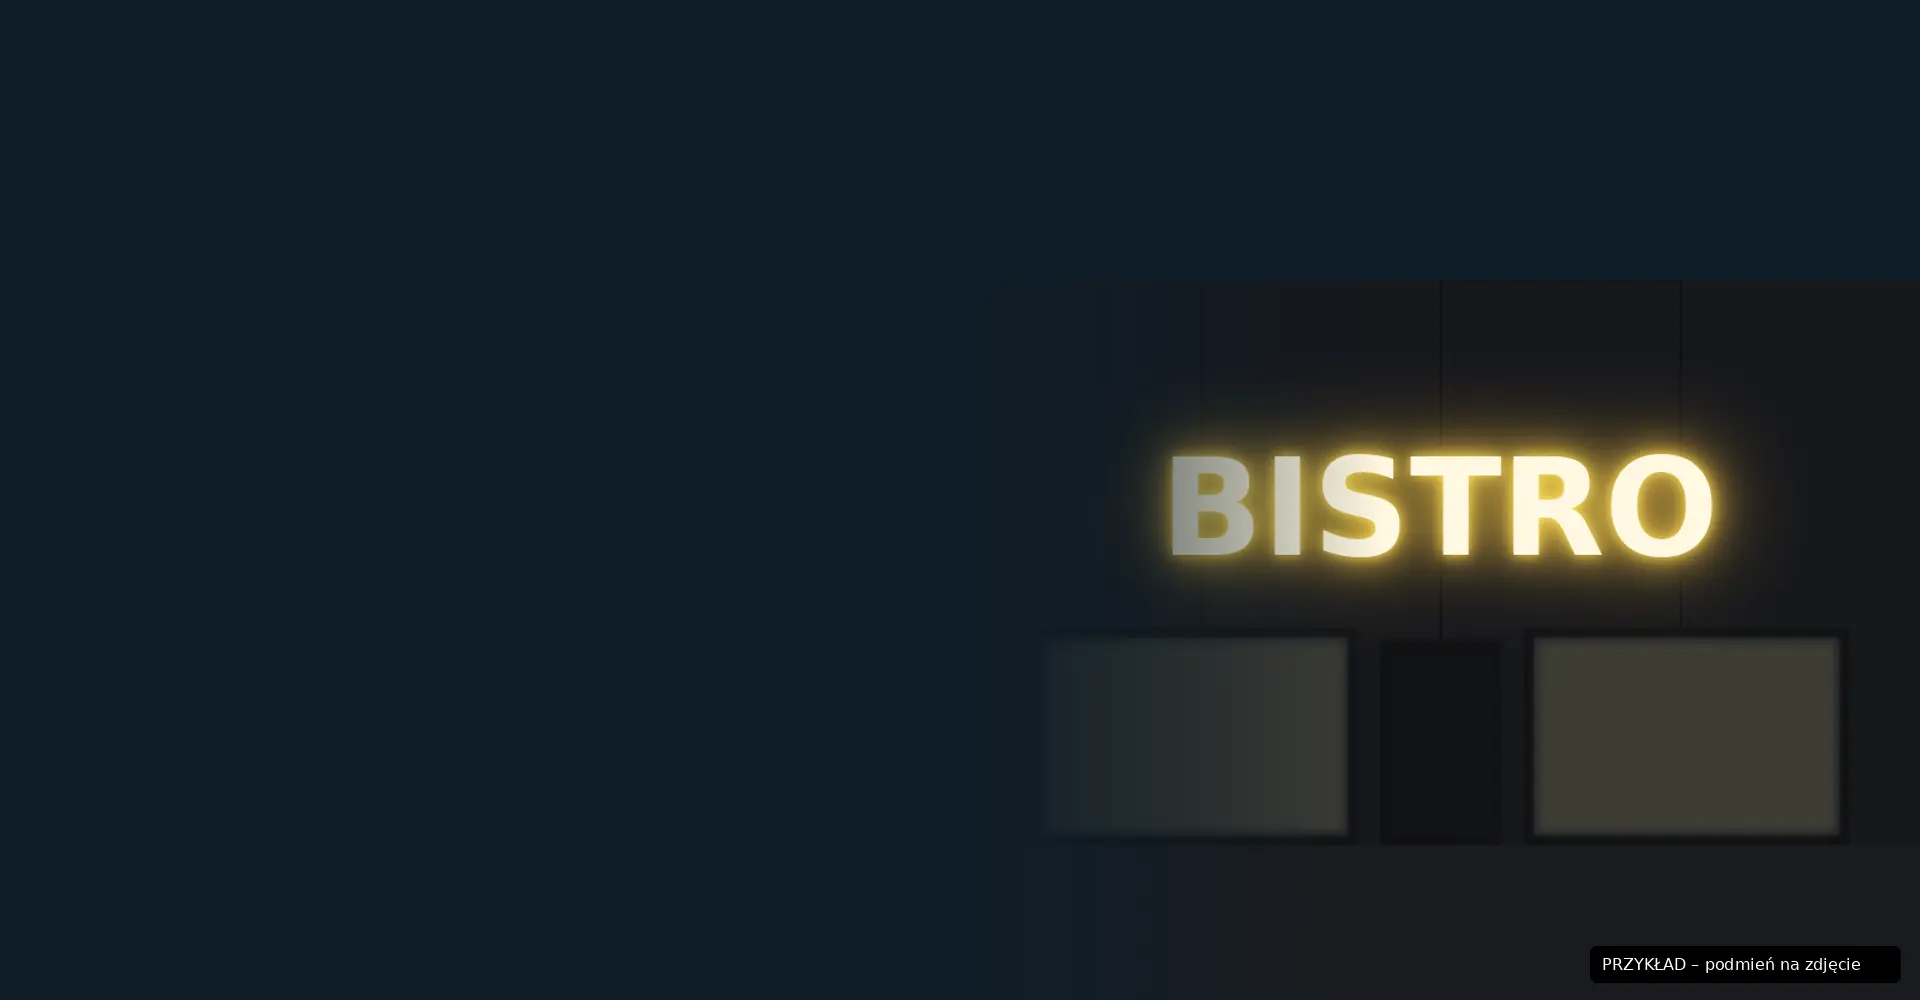
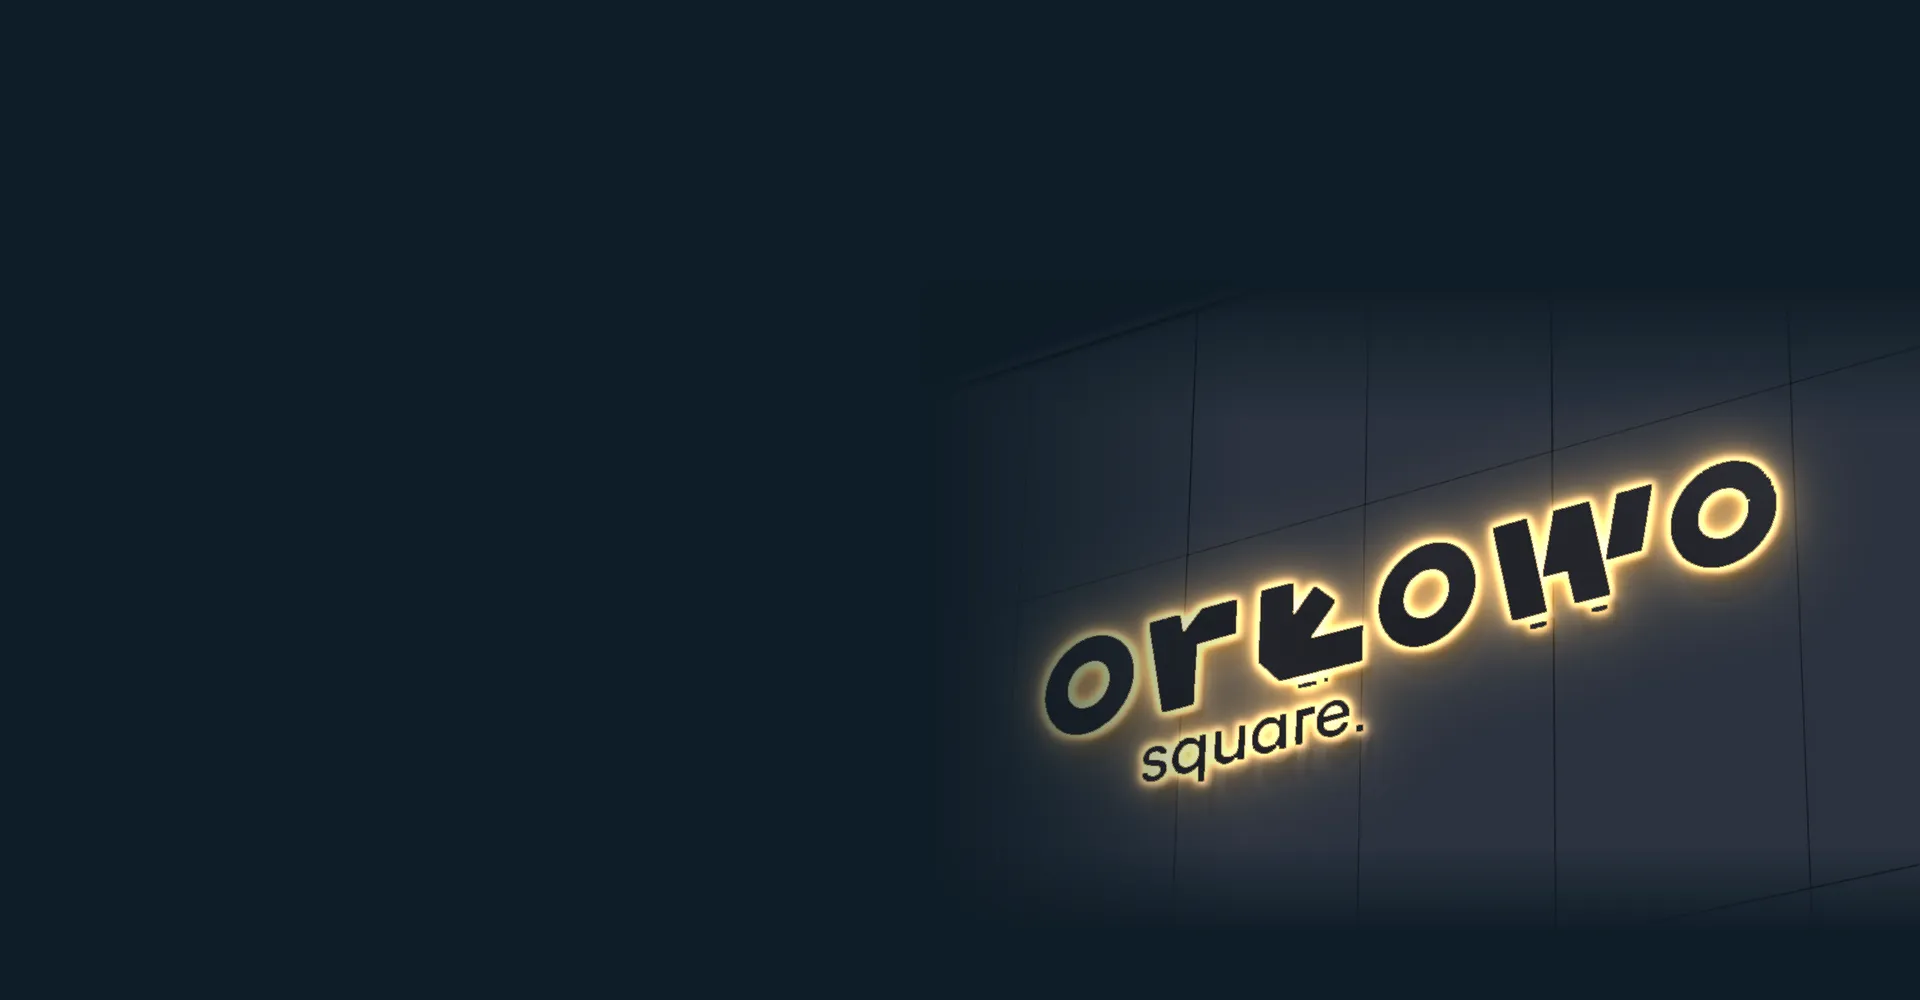
Hero: night photo with halo-lit facade letters; generator never overwrites existing images; noc.py tool
Claude-Session: https://claude.ai/code/session_01XYqhvjDYyCAEHx3yEozqMq

Changed region(s): [[0.5312, 0.341, 1.0, 0.899], [0.8125, 0.93, 1.0, 0.992]]

diff --git a/szyldy-gdynia/strona/style.css b/szyldy-gdynia/strona/style.css
@@ -305,7 +305,7 @@ figcaption { padding: 12px 14px; font-size: .9rem; line-height: 1.5; color: var(
   .main-nav ul { padding: 0; overflow: visible; }
   .header-actions { display: flex; }
   .hero { padding-top: 96px; }
-  .hero.has-img { background-image: linear-gradient(90deg, rgba(15, 29, 39, .97) 0%, rgba(15, 29, 39, .88) 38%, rgba(15, 29, 39, .25) 75%, rgba(15, 29, 39, .1) 100%), var(--hero-img); background-position: right center; }
+  .hero.has-img { background-image: linear-gradient(90deg, rgba(15, 29, 39, .96) 0%, rgba(15, 29, 39, .8) 36%, rgba(15, 29, 39, 0) 62%), var(--hero-img); background-position: right center; }
   .hero-inner { padding-bottom: 64px; }
   .stats { margin-top: 80px; }
   .sec { padding: 104px 0; }

diff --git a/szyldy-gdynia/noc.py b/szyldy-gdynia/noc.py
@@ -1,0 +1,69 @@
+#!/usr/bin/env python3
+"""Efekt nocy i podświetlenia liter (halo) na zdjęciu elewacji.
+Użycie: python3 noc.py zdjecie.jpg strona/img/hero-index.webp noc-pelne.webp
+Obszar liter (box) i kadr tła są ustawione pod zdjęcie Orłowo Square – przy innym zdjęciu popraw je w kodzie."""
+import sys
+import numpy as np
+from PIL import Image, ImageFilter
+
+src, out_hero, out_full = sys.argv[1], sys.argv[2], sys.argv[3]
+im = Image.open(src).convert("RGB")
+W, H = im.size
+a = np.asarray(im).astype(np.float32)
+r, g, b = a[..., 0], a[..., 1], a[..., 2]
+L = 0.299 * r + 0.587 * g + 0.114 * b
+
+# niebo: wyraźnie niebieskie i jasne
+sky0 = ((b - r) > 40) & (b > 140)
+sky0 = np.asarray(Image.fromarray((sky0 * 255).astype(np.uint8)).filter(ImageFilter.MinFilter(3)).filter(ImageFilter.MaxFilter(3))) > 0
+sky = np.cumprod(sky0, axis=0).astype(bool)  # tylko obszar ciągły od górnej krawędzi
+sky_img = Image.fromarray((sky * 255).astype(np.uint8)).filter(ImageFilter.MedianFilter(5))
+sky_m = np.asarray(sky_img.filter(ImageFilter.GaussianBlur(1.5))).astype(np.float32) / 255
+
+# litery: ciemne piksele w obszarze logo, bez cienkich linii paneli (otwarcie morfologiczne)
+dark = (L < 125) & ~sky
+box = np.zeros_like(dark); box[470:960, 500:1470] = True
+let = Image.fromarray(((dark & box) * 255).astype(np.uint8))
+let = let.filter(ImageFilter.MinFilter(5)).filter(ImageFilter.MaxFilter(5))
+let_m = np.asarray(let).astype(np.float32) / 255
+
+# noc: ciemna, chłodna elewacja + nocne niebo
+yy = np.linspace(0, 1, H)[:, None]
+sky_col = np.stack([10 + 10 * yy, 18 + 14 * yy, 30 + 18 * yy], -1) * np.ones((H, W, 1))
+fac = np.stack([L * .17, L * .20, L * .25], -1)
+night = fac * (1 - sky_m[..., None]) + sky_col * sky_m[..., None]
+
+# poświata LED na elewację (halo) – kilka warstw rozmycia
+amber = np.array([255, 178, 70], np.float32)
+glow = np.zeros((H, W), np.float32)
+for rad, w in ((60, .55), (26, .8), (10, .9)):
+    gl = np.asarray(let.filter(ImageFilter.MaxFilter(5)).filter(ImageFilter.GaussianBlur(rad))).astype(np.float32) / 255
+    glow += gl * w
+glow = np.clip(glow, 0, 1.4) * (1 - sky_m)
+lit = night + glow[..., None] * amber[None, None, :] * .85
+# ściana tuż przy literach najjaśniejsza, ciepła
+near = np.asarray(let.filter(ImageFilter.MaxFilter(9)).filter(ImageFilter.GaussianBlur(4))).astype(np.float32) / 255
+lit = lit + (near * (1 - let_m))[..., None] * np.array([255, 214, 150], np.float32) * .55
+
+# lico liter: ciemny metal z delikatną ciepłą krawędzią
+face = np.stack([L * .28 + 10, L * .28 + 12, L * .30 + 16], -1)
+rim = np.clip(let_m - np.asarray(let.filter(ImageFilter.MinFilter(3))).astype(np.float32) / 255, 0, 1)
+face = face + rim[..., None] * np.array([120, 85, 35], np.float32)
+res = lit * (1 - let_m[..., None]) + face * let_m[..., None]
+res = np.clip(res, 0, 255).astype(np.uint8)
+full = Image.fromarray(res)
+full.save(out_full, "WEBP", quality=82)
+
+# kadr do tła górnej części strony: szyld po prawej, płynne przejście w granat
+navy = np.array([15, 29, 39], np.float32)
+crop = full.crop((380, 300, 1600, 1100)).resize((1000, 656), Image.LANCZOS)
+cw, ch = crop.size
+hero = np.ones((1000, 1920, 3), np.float32) * navy
+X, Y = 920, 280
+c = np.asarray(crop).astype(np.float32)
+mx = np.clip(np.arange(cw) / 320, 0, 1)[None, :]
+my = np.clip(np.minimum(np.arange(ch) / 140, (ch - 1 - np.arange(ch)) / 90), 0, 1)[:, None]
+m = (mx * my)[..., None]
+hero[Y:Y + ch, X:X + cw] = c * m + hero[Y:Y + ch, X:X + cw] * (1 - m)
+Image.fromarray(np.clip(hero, 0, 255).astype(np.uint8)).save(out_hero, "WEBP", quality=80)
+print("ok", full.size)

diff --git a/szyldy-gdynia/build.py b/szyldy-gdynia/build.py
@@ -1429,7 +1429,7 @@ def images():
     navy = (15, 29, 39)
     for key, name in [("led-1", "hero-index"), ("szyld-2", "hero-szyldy"), ("litery-1", "hero-litery"), ("led-2", "hero-led")]:
         path = img_dir / f"{name}.webp"
-        if path.exists() and path.stat().st_size > 40000:
+        if path.exists():  # nigdy nie nadpisuj – usuń plik, żeby wygenerować przykład od nowa
             continue
         hw, hh = 1920, 1000
         hero = Image.new("RGB", (hw, hh), navy)
@@ -1448,7 +1448,7 @@ def images():
 
     for key, im in scenes.items():
         path = img_dir / f"{key}.webp"
-        if path.exists() and path.stat().st_size > 6000:  # nie nadpisuj prawdziwych zdjęć
+        if path.exists():  # nigdy nie nadpisuj – usuń plik, żeby wygenerować przykład od nowa
             continue
         badge(im)
         im.save(path, "WEBP", quality=78)
